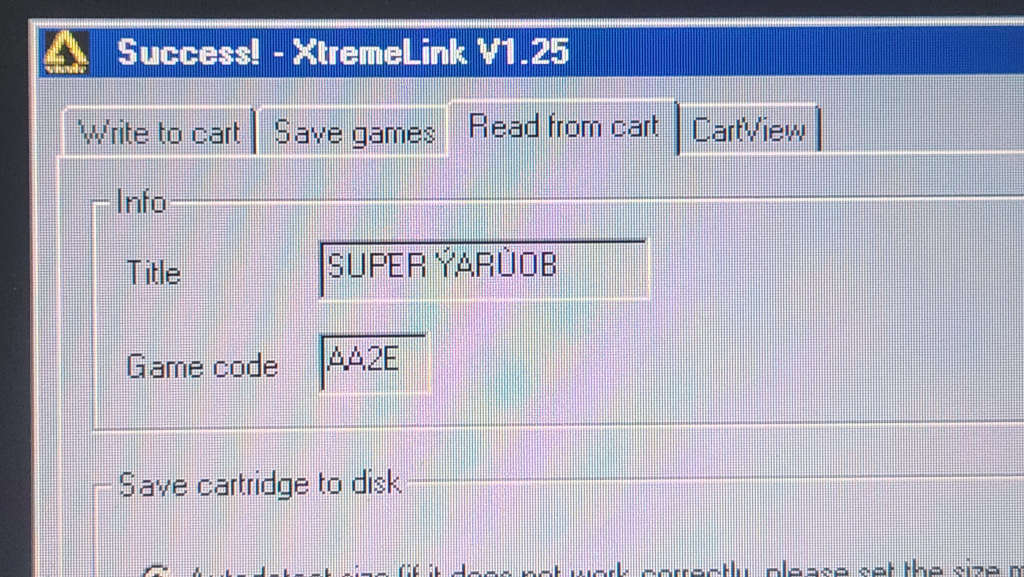
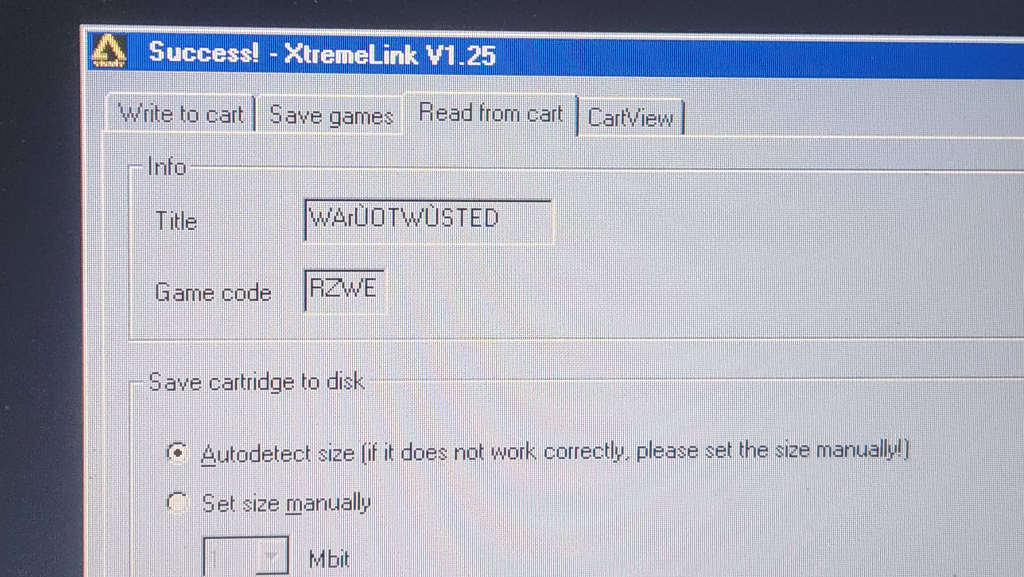
progress

diff --git a/site/blog/flash2advance/index.php b/site/blog/flash2advance/index.php
@@ -138,10 +138,11 @@ On its own though, you had the ability to load multiple ROMs as part of a single
 <img width="720px" src="/assets/img/blog/flash2advance/win98_9.jpg"><br/><br/>
 
 There were also some tools for manipulating save files. Unlike later cartridges, it had up to four different slots, with slots 1-3 being reserved for games 1-3, and slot 4 being for everything else. That's pretty restrictive, but then again, cartridges in this time would have been so tight on flash space that you would hardly ever be fitting anything more than a couple of games on them.<br/>
-<img width="720px" src="/assets/img/blog/flash2advance/win98_10.jpg"><br/>
+<img width="720px" src="/assets/img/blog/flash2advance/win98_10.jpg"><br/><br/>
+
+I wish I could go into much more detail, but the fact that this linker appears to be dying means I can only do a very limited set of things with it. If you're out looking for a linker like this, then I would suggest just going with a GBxCart RW and using FlashGBX with it, that supports all Flash2Advance and FlashAdvance cartridges so that we never have to touch fusterclucks like this again.<br/><br/>
 
 The wonders of how literally anything got done before the days of USB.<br/><br/>
-
 </p>
 
 <br/>
